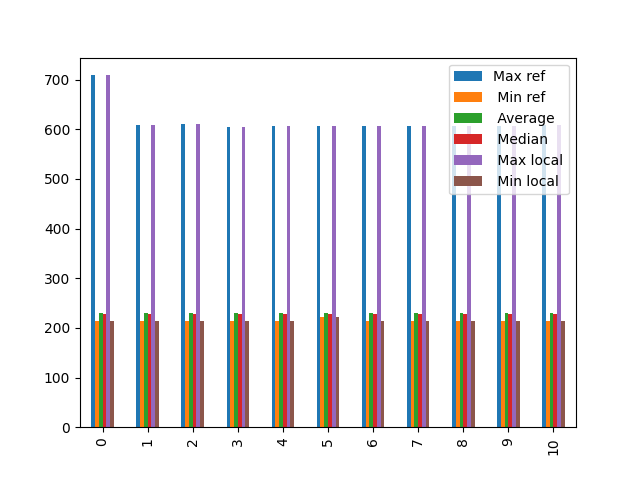
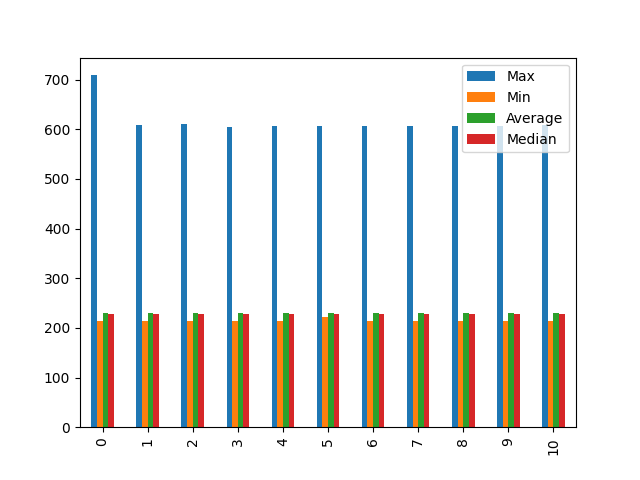
tables added to readme

diff --git a/Raspberry/RTOSBench/example/freertos-rpi2/kernel_tests/parser.py b/Raspberry/RTOSBench/example/freertos-rpi2/kernel_tests/parser.py
@@ -19,7 +19,7 @@ timer_t1 = []
 timer_t2 = []
 
 f = open("stats.csv", "w")
-f.write("Max ref, Min ref, Average, Median, Max local, Min local\n")
+f.write("Max,Min,Average,Median\n")
 
 def Diff(li1, li2):
     return (list(set(li2) - set(li1)))
@@ -31,7 +31,7 @@ def make_stats(timer_t1, timer_t2, max_ref, min_ref):
     #print(t2)
     diff = numpy.abs(t2 - t1)
     avg = numpy.mean(diff)
-    f.write( str(max_ref) +"," + str(min_ref) + "," + str(avg) + ","+ str(numpy.median(diff)) + "," + str(max(diff)) + ","+ str(min(diff)) +"\n")
+    f.write( str(max_ref) +"," + str(min_ref) + "," + str(avg) + ","+ str(numpy.median(diff)) + "\n")
 
 
 with open(filepath,errors='ignore') as fp:

diff --git a/Raspberry/RTOSBench/example/freertos-rpi2/kernel_tests/mutex/README.md b/Raspberry/RTOSBench/example/freertos-rpi2/kernel_tests/mutex/README.md
@@ -1,2 +1,22 @@
 # mutex
 ![mutex](mutex.png)
+
+| Max  | Min  | Average            | Median |
+| ---- | ---- | ------------------ | ------ |
+| 1485 | 1032 | 1054.2437410071943 | 1056.0 |
+| 1009 | 517  | 529.3812           | 529.0  |
+| 1494 | 1026 | 1054.0116          | 1056.0 |
+| 1009 | 518  | 529.36             | 529.0  |
+| 1504 | 1032 | 1052.5692          | 1056.0 |
+| 1009 | 518  | 529.371            | 529.0  |
+| 1520 | 1032 | 1051.26            | 1056.0 |
+| 1015 | 518  | 529.3562           | 529.0  |
+| 1498 | 1032 | 1052.2886          | 1056.0 |
+| 1009 | 518  | 529.3282           | 529.0  |
+| 1496 | 1040 | 1053.4988          | 1056.0 |
+| 1009 | 510  | 529.438            | 529.0  |
+| 1484 | 1032 | 1051.8798          | 1056.0 |
+| 1007 | 518  | 529.369            | 529.0  |
+| 1496 | 1026 | 1052.5462          | 1056.0 |
+| 1007 | 517  | 529.39             | 529.0  |
+| 1491 | 1032 | 1052.8356          | 1056.0 |

diff --git a/Raspberry/RTOSBench/example/freertos-rpi2/kernel_tests/sem_processing/README.md b/Raspberry/RTOSBench/example/freertos-rpi2/kernel_tests/sem_processing/README.md
@@ -1,2 +1,21 @@
 # sem_processing
 ![sem_processing](sem_processing.png)
+
+| Max  | Min | Average            | Median |
+| ---- | --- | ------------------ | ------ |
+| 1368 | 117 | 125.54245187436676 | 125.0  |
+| 460  | 100 | 100.1288           | 100.0  |
+| 1300 | 117 | 125.719            | 125.0  |
+| 117  | 100 | 100.0062           | 100.0  |
+| 1384 | 117 | 125.4276           | 125.0  |
+| 117  | 100 | 100.005            | 100.0  |
+| 1310 | 125 | 125.7738           | 125.0  |
+| 458  | 97  | 100.1528           | 100.0  |
+| 1338 | 125 | 125.4936           | 125.0  |
+| 447  | 100 | 100.088            | 100.0  |
+| 1367 | 125 | 125.5884           | 125.0  |
+| 117  | 100 | 100.0058           | 100.0  |
+| 1406 | 117 | 125.5418           | 125.0  |
+| 485  | 100 | 100.163            | 100.0  |
+| 1310 | 125 | 125.3594           | 125.0  |
+| 132  | 100 | 100.0116           | 100.0  |

diff --git a/Raspberry/RTOSBench/example/freertos-rpi2/kernel_tests/mq_processing/README.md b/Raspberry/RTOSBench/example/freertos-rpi2/kernel_tests/mq_processing/README.md
@@ -1,2 +1,21 @@
 # mq_processing
 ![mq_processing](mq_processing.png)
+
+| Max  | Min | Average  | Median |
+| ---- | --- | -------- | ------ |
+| 1708 | 168 | 181.9904 | 182.0  |
+| 170  | 137 | 137.508  | 137.0  |
+| 1708 | 173 | 182.1278 | 182.0  |
+| 170  | 137 | 137.5074 | 137.0  |
+| 1730 | 168 | 182.0024 | 182.0  |
+| 515  | 137 | 137.708  | 137.0  |
+| 1706 | 173 | 182.0486 | 182.0  |
+| 515  | 137 | 137.7066 | 137.0  |
+| 1784 | 168 | 182.1526 | 182.0  |
+| 170  | 137 | 137.5074 | 137.0  |
+| 1754 | 168 | 182.2284 | 182.0  |
+| 517  | 137 | 137.6824 | 137.0  |
+| 1694 | 173 | 182.1564 | 182.0  |
+| 515  | 137 | 137.6992 | 137.0  |
+| 1800 | 168 | 182.1734 | 182.0  |
+| 170  | 137 | 137.5078 | 137.0  |

diff --git a/Raspberry/RTOSBench/example/freertos-rpi2/kernel_tests/sem/README.md b/Raspberry/RTOSBench/example/freertos-rpi2/kernel_tests/sem/README.md
@@ -1,2 +1,19 @@
 # sem
 ![sem](sem.png)
+
+| Max  | Min | Average  | Median |
+| ---- | --- | -------- | ------ |
+| 1393 | 848 | 863.26   | 862.0  |
+| 448  | 420 | 427.467  | 426.0  |
+| 1401 | 848 | 859.1238 | 857.0  |
+| 444  | 418 | 427.3768 | 427.0  |
+| 1332 | 848 | 863.2078 | 862.0  |
+| 455  | 420 | 427.572  | 427.0  |
+| 1361 | 848 | 866.5942 | 867.0  |
+| 791  | 420 | 427.4196 | 427.0  |
+| 1405 | 848 | 866.9872 | 869.0  |
+| 448  | 420 | 427.5848 | 427.0  |
+| 1329 | 848 | 863.2346 | 862.0  |
+| 448  | 420 | 427.0466 | 427.0  |
+| 1405 | 848 | 865.051  | 863.0  |
+| 452  | 420 | 428.1084 | 427.0  |

diff --git a/Raspberry/RTOSBench/example/freertos-rpi2/kernel_tests/mq/README.md b/Raspberry/RTOSBench/example/freertos-rpi2/kernel_tests/mq/README.md
@@ -1,2 +1,15 @@
 # mq
 ![mq](mq.png)
+
+| Max  | Min | Average           | Median |
+| ---- | --- | ----------------- | ------ |
+| 1303 | 832 | 871.0741758241758 | 871.0  |
+| 1012 | 512 | 526.2928          | 527.0  |
+| 1334 | 841 | 865.4654          | 863.0  |
+| 890  | 512 | 528.0862          | 528.0  |
+| 1340 | 841 | 865.6014          | 863.0  |
+| 563  | 512 | 526.1014          | 527.0  |
+| 1337 | 825 | 859.2314          | 859.0  |
+| 563  | 512 | 528.666           | 530.0  |
+| 1337 | 832 | 862.7384          | 863.0  |
+| 563  | 512 | 526.9088          | 528.0  |

diff --git a/Raspberry/RTOSBench/example/freertos-rpi2/kernel_tests/mutex_processing/README.md b/Raspberry/RTOSBench/example/freertos-rpi2/kernel_tests/mutex_processing/README.md
@@ -1,2 +1,13 @@
 # mutex_processing
 ![mutex_processing](mutex_processing.png)
+
+| Max | Min | Average            | Median |
+| --- | --- | ------------------ | ------ |
+| 951 | 123 | 131.99488491048592 | 132.0  |
+| 515 | 157 | 160.1388           | 160.0  |
+| 935 | 123 | 132.3574           | 132.0  |
+| 554 | 157 | 160.154            | 160.0  |
+| 933 | 113 | 132.326            | 132.0  |
+| 537 | 149 | 160.2158           | 160.0  |
+| 963 | 115 | 132.467            | 132.0  |
+| 511 | 157 | 160.2146           | 160.0  |

diff --git a/Raspberry/RTOSBench/example/freertos-rpi2/kernel_tests/sem_prio/README.md b/Raspberry/RTOSBench/example/freertos-rpi2/kernel_tests/sem_prio/README.md
@@ -1,2 +1,16 @@
 # sem_prio
 ![sem_prio](sem_prio.png)
+
+| Max | Min | Average  | Median |
+| --- | --- | -------- | ------ |
+| 709 | 214 | 229.73   | 229.0  |
+| 608 | 214 | 229.69   | 229.0  |
+| 611 | 214 | 229.7058 | 229.0  |
+| 604 | 214 | 229.6464 | 229.0  |
+| 606 | 214 | 229.7184 | 229.0  |
+| 606 | 221 | 229.8622 | 229.0  |
+| 606 | 214 | 229.5388 | 229.0  |
+| 606 | 214 | 229.6282 | 229.0  |
+| 606 | 214 | 229.6548 | 229.0  |
+| 606 | 214 | 229.5698 | 229.0  |
+| 608 | 214 | 229.6938 | 229.0  |

diff --git a/Raspberry/RTOSBench/example/freertos-rpi2/kernel_tests/round_robin/README.md b/Raspberry/RTOSBench/example/freertos-rpi2/kernel_tests/round_robin/README.md
@@ -1,2 +1,12 @@
 # round_robin
 ![round_robin](round_robin.png)
+
+| Max | Min | Average            | Median |
+| --- | --- | ------------------ | ------ |
+| 191 | 155 | 168.49513381995135 | 168.0  |
+| 482 | 157 | 169.26705341068214 | 168.0  |
+| 493 | 157 | 169.1506301260252  | 168.0  |
+| 187 | 157 | 168.39167833566714 | 168.0  |
+| 480 | 157 | 170.04620924184837 | 168.0  |
+| 191 | 157 | 168.47949589917982 | 168.0  |
+| 480 | 160 | 168.63292658531705 | 168.0  |

diff --git a/Raspberry/RTOSBench/example/freertos-rpi2/kernel_tests/mutex_pip/README.md b/Raspberry/RTOSBench/example/freertos-rpi2/kernel_tests/mutex_pip/README.md
@@ -1,2 +1,11 @@
 # mutex_pip
 ![mutex_pip](mutex_pip.png)
+
+| Max  | Min  | Average   | Median |
+| ---- | ---- | --------- | ------ |
+| 1505 | 1024 | 1037.7834 | 1034.0 |
+| 1490 | 1026 | 1041.5176 | 1042.0 |
+| 1493 | 1026 | 1043.6628 | 1050.0 |
+| 1485 | 1026 | 1037.1812 | 1034.0 |
+| 1497 | 1026 | 1045.026  | 1050.0 |
+| 1498 | 1024 | 1040.7782 | 1042.0 |

diff --git a/Raspberry/RTOSBench/example/freertos-rpi2/kernel_tests/mutex_workload/README.md b/Raspberry/RTOSBench/example/freertos-rpi2/kernel_tests/mutex_workload/README.md
@@ -1,2 +1,7 @@
 # mutex_workload
 ![mutex_workload](mutex_workload.png)
+
+| Max | Min | Average           | Median |
+| --- | --- | ----------------- | ------ |
+| 772 | 528 | 531.2125028623769 | 529.0  |
+| 788 | 528 | 531.1896          | 529.0  |

diff --git a/Raspberry/RTOSBench/example/freertos-rpi2/kernel_tests/mq_workload/README.md b/Raspberry/RTOSBench/example/freertos-rpi2/kernel_tests/mq_workload/README.md
@@ -1,2 +1,7 @@
 # mq_workload
 ![mq_workload](mq_workload.png)
+
+| Max  | Min | Average           | Median |
+| ---- | --- | ----------------- | ------ |
+| 2497 | 535 | 544.5755334882738 | 544.0  |
+| 2555 | 535 | 544.9458          | 544.0  |
